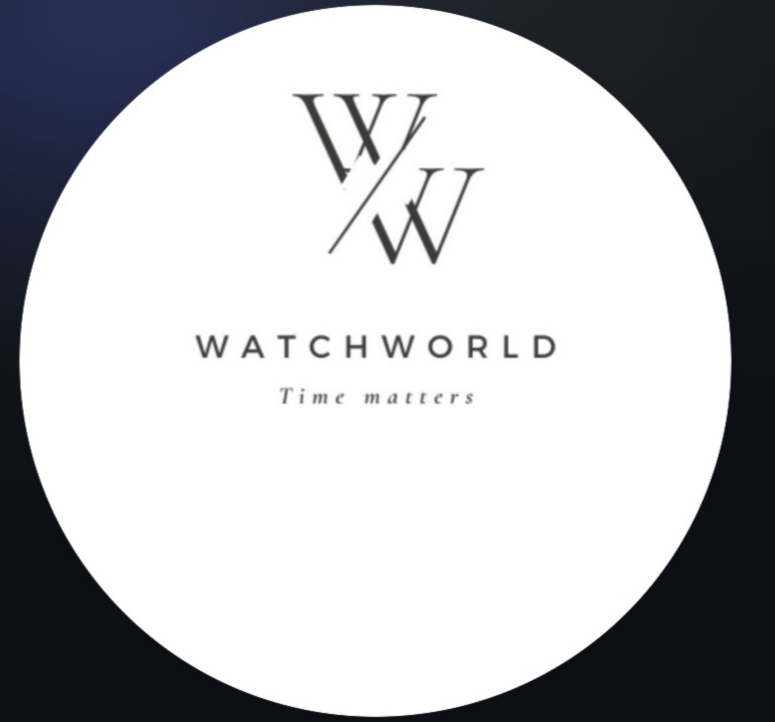
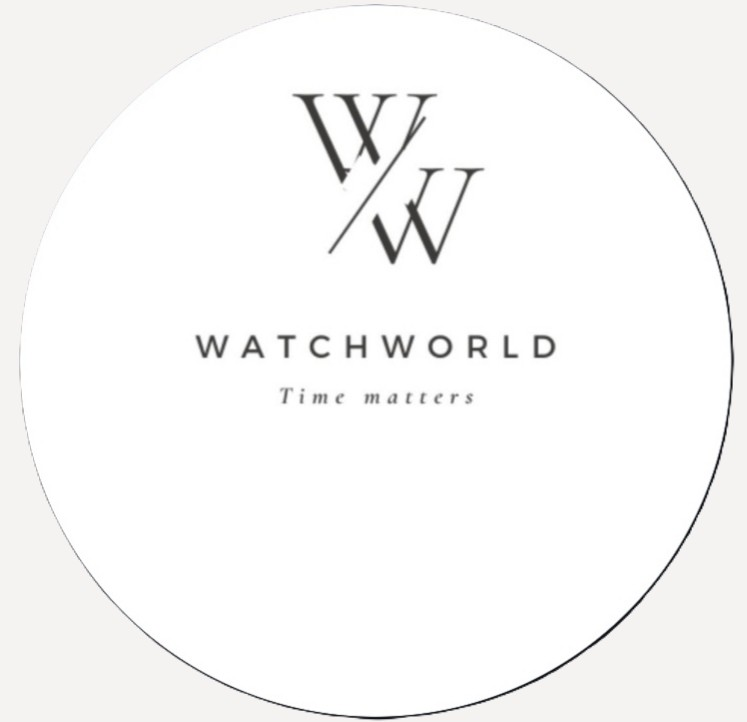
updates

diff --git a/index.html b/index.html
@@ -12,47 +12,15 @@
 
 </head>
 <body>
-  <script>
-    window.SnipcartSettings = {
-      publicApiKey: "YOUR_API_KEY",  // <-- Replace with your actual Snipcart public API key
-      loadStrategy: "on-user-interaction",
-    };
-
-    (function(){
-      var c,d;(d=(c=window.SnipcartSettings).version)!=null||(c.version="3.0");
-      var s,S;(S=(s=window.SnipcartSettings).timeoutDuration)!=null||(s.timeoutDuration=2750);
-      var l,p;(p=(l=window.SnipcartSettings).domain)!=null||(l.domain="cdn.snipcart.com");
-      var w,u;(u=(w=window.SnipcartSettings).protocol)!=null||(w.protocol="https");
-      var m,g;(g=(m=window.SnipcartSettings).loadCSS)!=null||(m.loadCSS=!0);
-      var y=window.SnipcartSettings.version.includes("v3.0.0-ci")||window.SnipcartSettings.version!="3.0"&&window.SnipcartSettings.version.localeCompare("3.4.0",void 0,{numeric:!0,sensitivity:"base"})===-1,f=["focus","mouseover","touchmove","scroll","keydown"];
-      window.LoadSnipcart=o;document.readyState==="loading"?document.addEventListener("DOMContentLoaded",r):r();
-      function r(){window.SnipcartSettings.loadStrategy?window.SnipcartSettings.loadStrategy==="on-user-interaction"&&(f.forEach(function(t){return document.addEventListener(t,o)}),setTimeout(o,window.SnipcartSettings.timeoutDuration)):o()}
-      var a=!1;function o(){if(a)return;a=!0;
-        let t=document.getElementsByTagName("head")[0],
-        n=document.querySelector("#snipcart"),
-        i=document.querySelector('src[src^="'.concat(window.SnipcartSettings.protocol,"://").concat(window.SnipcartSettings.domain,'"][src$="snipcart.js"]')),
-        e=document.querySelector('link[href^="'.concat(window.SnipcartSettings.protocol,"://").concat(window.SnipcartSettings.domain,'"][href$="snipcart.css"]'));
-        n||(n=document.createElement("div"),n.id="snipcart",n.setAttribute("hidden","true"),document.body.appendChild(n)),h(n),
-        i||(i=document.createElement("script"),i.src="".concat(window.SnipcartSettings.protocol,"://").concat(window.SnipcartSettings.domain,"/themes/v").concat(window.SnipcartSettings.version,"/default/snipcart.js"),i.async=!0,t.appendChild(i)),
-        !e&&window.SnipcartSettings.loadCSS&&(e=document.createElement("link"),e.rel="stylesheet",e.type="text/css",e.href="".concat(window.SnipcartSettings.protocol,"://").concat(window.SnipcartSettings.domain,"/themes/v").concat(window.SnipcartSettings.version,"/default/snipcart.css"),t.prepend(e)),
-        f.forEach(function(v){return document.removeEventListener(v,o)})
-      }
-      function h(t){
-        !y||(t.dataset.apiKey=window.SnipcartSettings.publicApiKey,
-        window.SnipcartSettings.addProductBehavior&&(t.dataset.configAddProductBehavior=window.SnipcartSettings.addProductBehavior),
-        window.SnipcartSettings.modalStyle&&(t.dataset.configModalStyle=window.SnipcartSettings.modalStyle),
-        window.SnipcartSettings.currency&&(t.dataset.currency=window.SnipcartSettings.currency),
-        window.SnipcartSettings.templatesUrl&&(t.dataset.templatesUrl=window.SnipcartSettings.templatesUrl))
-      }
-    })();
-  </script>
-
-  <div hidden id="snipcart" data-api-key="YOUR_API_KEY"></div>
-
   <!-- Top Bar -->
 <div class="top-bar">
   <div class="container top-bar-content">
-    <div class="left-contact">Call us: +254718995761</div>
+    <div class="logo-area">
+  <img src="images/WhatsApp Image 2025-05-29 at 22.09.01_649887b0.jpg" alt="Business Logo" style="height: 40px; vertical-align: middle; margin-right: 10px;">
+  <span class="business-name" style="font-weight: bold; font-size: 20px;">My Watch Store</span>
+</div>
+
+      
     <div class="right-contact">
       <a href="https://wa.me/254718995761" target="_blank" class="whatsapp-link">
         WhatsApp Us
